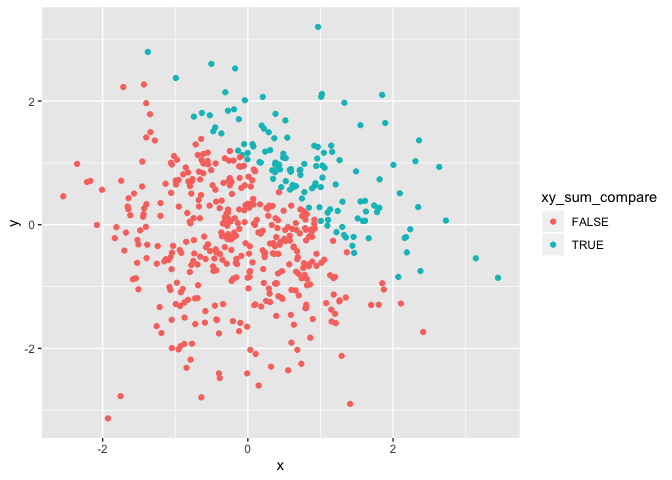
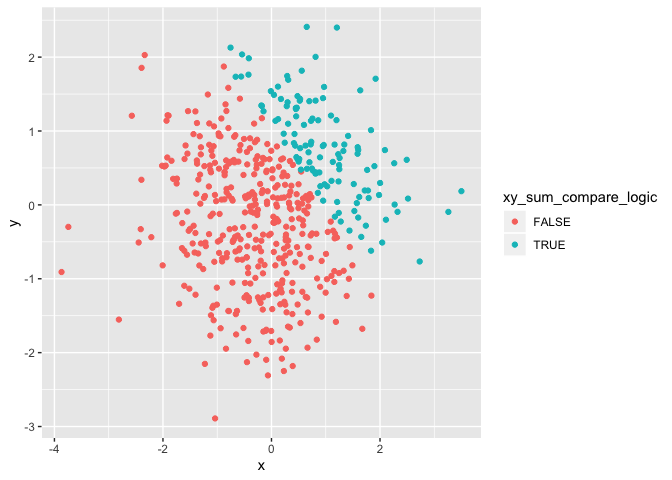
Update the answers.

diff --git a/p8105_hw1_jc5314.md b/p8105_hw1_jc5314.md
@@ -5,7 +5,7 @@ Junxian Chen (jc5314)
 
 # Problem 1
 
-### 1\. Create a data frame called `p1_data`:
+### 1\. Create a data frame called `p1_df`:
 
 ``` r
 library(tidyverse)
@@ -19,13 +19,13 @@ p1_df = tibble(
 )
 ```
 
-### 2\. Take the mean of each variable in the data frame `p1_data`:
+### 2\. Take the mean of each variable in the data frame `p1_df`:
 
 ``` r
 mean(pull(p1_df, norm_samp))
-## [1] 0.5383636
+## [1] 0.6585602
 mean(pull(p1_df, norm_samp_pos))
-## [1] 0.875
+## [1] 0.625
 mean(pull(p1_df, character_vector))
 ## Warning in mean.default(pull(p1_df, character_vector)): argument is not
 ## numeric or logical: returning NA
@@ -43,7 +43,7 @@ result.
 
 ### 3\. Convert variables from one type to another:
 
-Applies the `as.numeric` function to the logical, character, and factor
+Apply the `as.numeric` function to the logical, character, and factor
 variables:
 
 ``` r
@@ -73,8 +73,8 @@ neither.
 # Convert the logical vector to numeric, and multiply the random sample by the result:
 
 as.numeric(pull(p1_df, norm_samp_pos)) * pull(p1_df, norm_samp)
-## [1] 0.63477816 0.00000000 0.99458410 0.01025607 0.89286929 0.44625730
-## [7] 1.76444671 0.97107230
+## [1] 2.3490977 0.0000000 0.6957339 1.3614631 0.0000000 0.0000000 1.0192251
+## [8] 1.2410935
 
 # Convert the logical vector to a factor, and multiply the random sample by the result:
 
@@ -88,8 +88,8 @@ factor(pull(p1_df, norm_samp_pos)) * pull(p1_df, norm_samp)
 
 factor_samp_pos = factor(pull(p1_df, norm_samp_pos))
 as.numeric(factor_samp_pos) * pull(p1_df, norm_samp)
-## [1]  1.26955631 -1.40735516  1.98916819  0.02051214  1.78573858  0.89251460
-## [7]  3.52889342  1.94214461
+## [1]  4.6981954 -0.4414847  1.3914678  2.7229262 -0.8025544 -0.1540928
+## [7]  2.0384502  2.4821870
 ```
 
 # Problem 2
@@ -101,18 +101,18 @@ as.numeric(factor_samp_pos) * pull(p1_df, norm_samp)
 p2_df = tibble(                  
   x = rnorm(500),
   y = rnorm(500),
-  xy_sum_compare = x + y > 1,
-  xy_sum_compare_numeric = as.numeric(xy_sum_compare),
-  xy_sum_compare_factor = factor(xy_sum_compare)
+  xy_sum_compare_logic = x + y > 1,
+  xy_sum_compare_numeric = as.numeric(xy_sum_compare_logic),
+  xy_sum_compare_factor = factor(xy_sum_compare_logic)
 )
 ```
 
 Dataset description:
 
 The dataset `p2_df`contains 500 rows and 5 columns. For the variable `x`
-in dataset, the mean is 0.081802, the median is 0.0598477 and the
-standard deviation is 0.9732732. The proportion of cases for which `x +
-y > 1` is 25.6%.
+in dataset, the mean is -0.0581569, the median is -0.0250602 and the
+standard deviation is 1.0320743. The proportion of cases for which `x +
+y > 1` is 23.8%.
 
 ### 2\. Make a scatterplot of `y` vs `x`:
 
@@ -120,7 +120,7 @@ Make the
 plots:
 
 ``` r
-plot_1 = ggplot(p2_df, aes(x = x, y = y, color = xy_sum_compare)) + geom_point()
+plot_1 = ggplot(p2_df, aes(x = x, y = y, color = xy_sum_compare_logic)) + geom_point()
 
 plot_2 = ggplot(p2_df, aes(x = x, y = y, color = xy_sum_compare_numeric)) + geom_point()
 
@@ -147,7 +147,7 @@ plot_3
 
 ![](p8105_hw1_jc5314_files/figure-gfm/unnamed-chunk-7-3.png)<!-- -->
 
-Comments on the on the color scales:
+Comments on the color scales:
 
 Although the points in these three scatterplots are colored by different
 types of variable (logical, numeric, factor), the color scales are the
